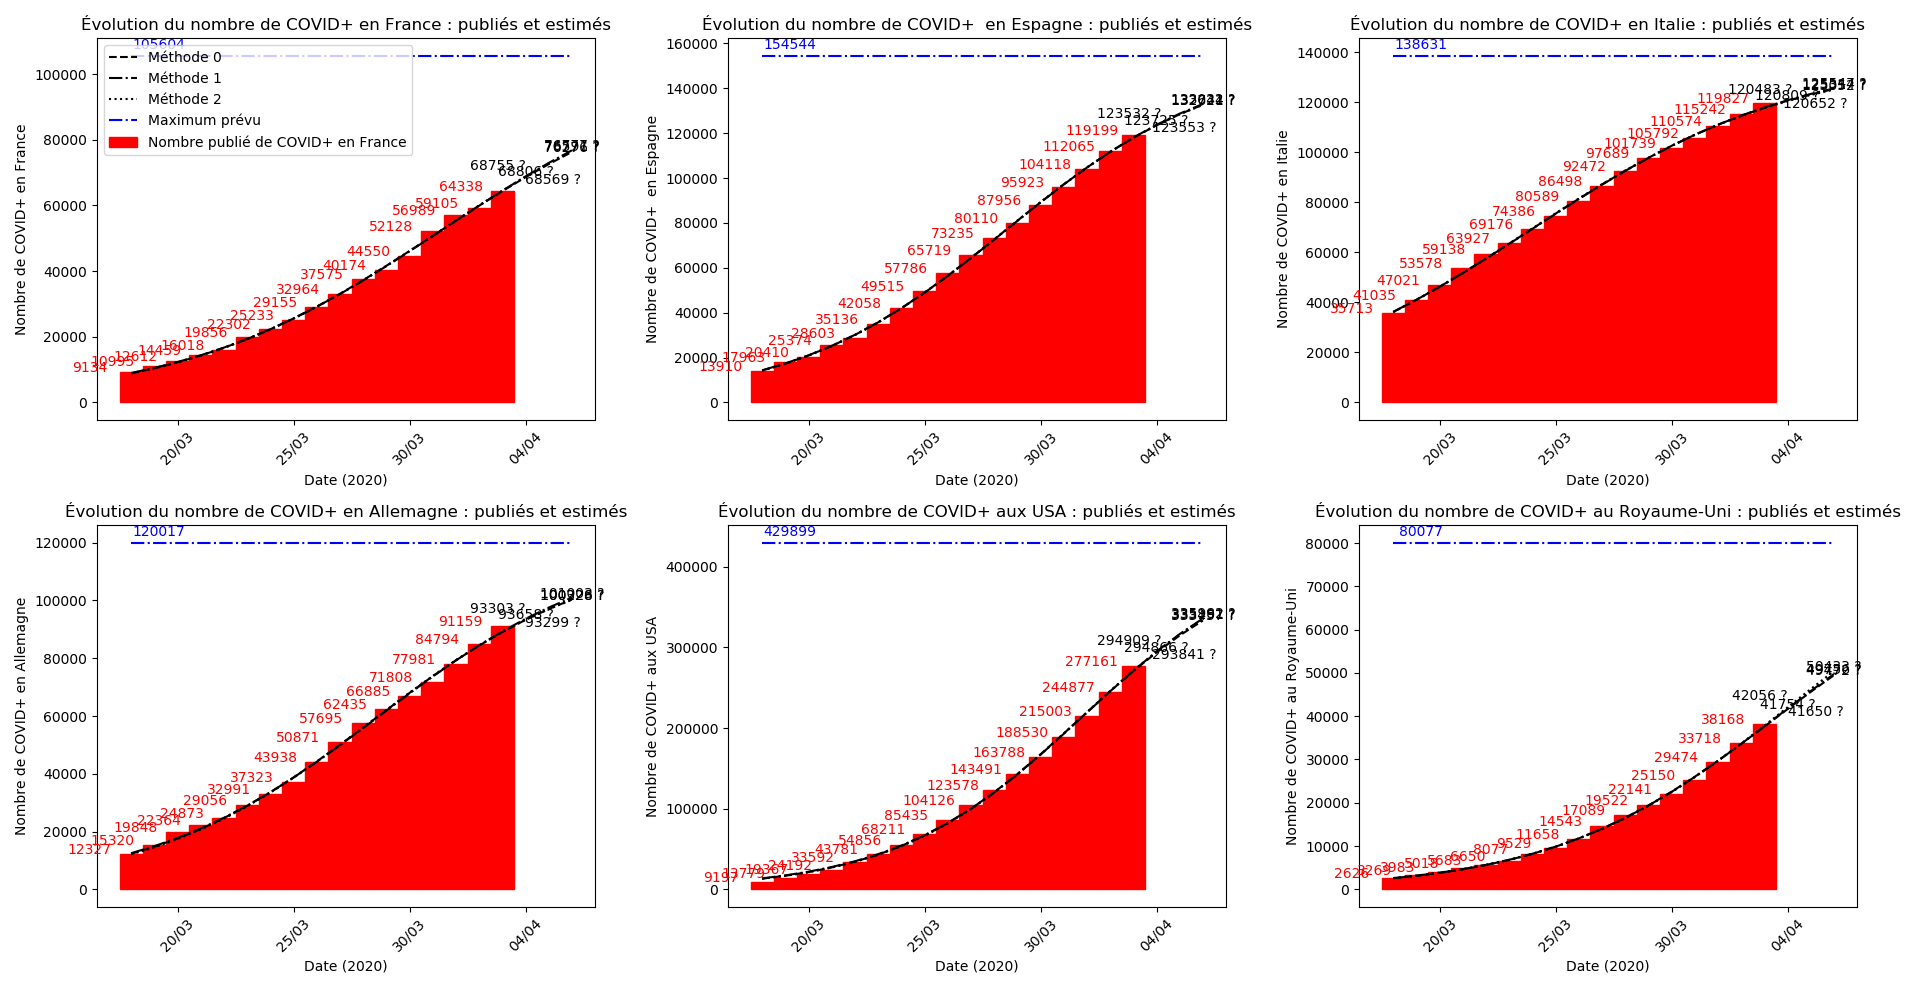
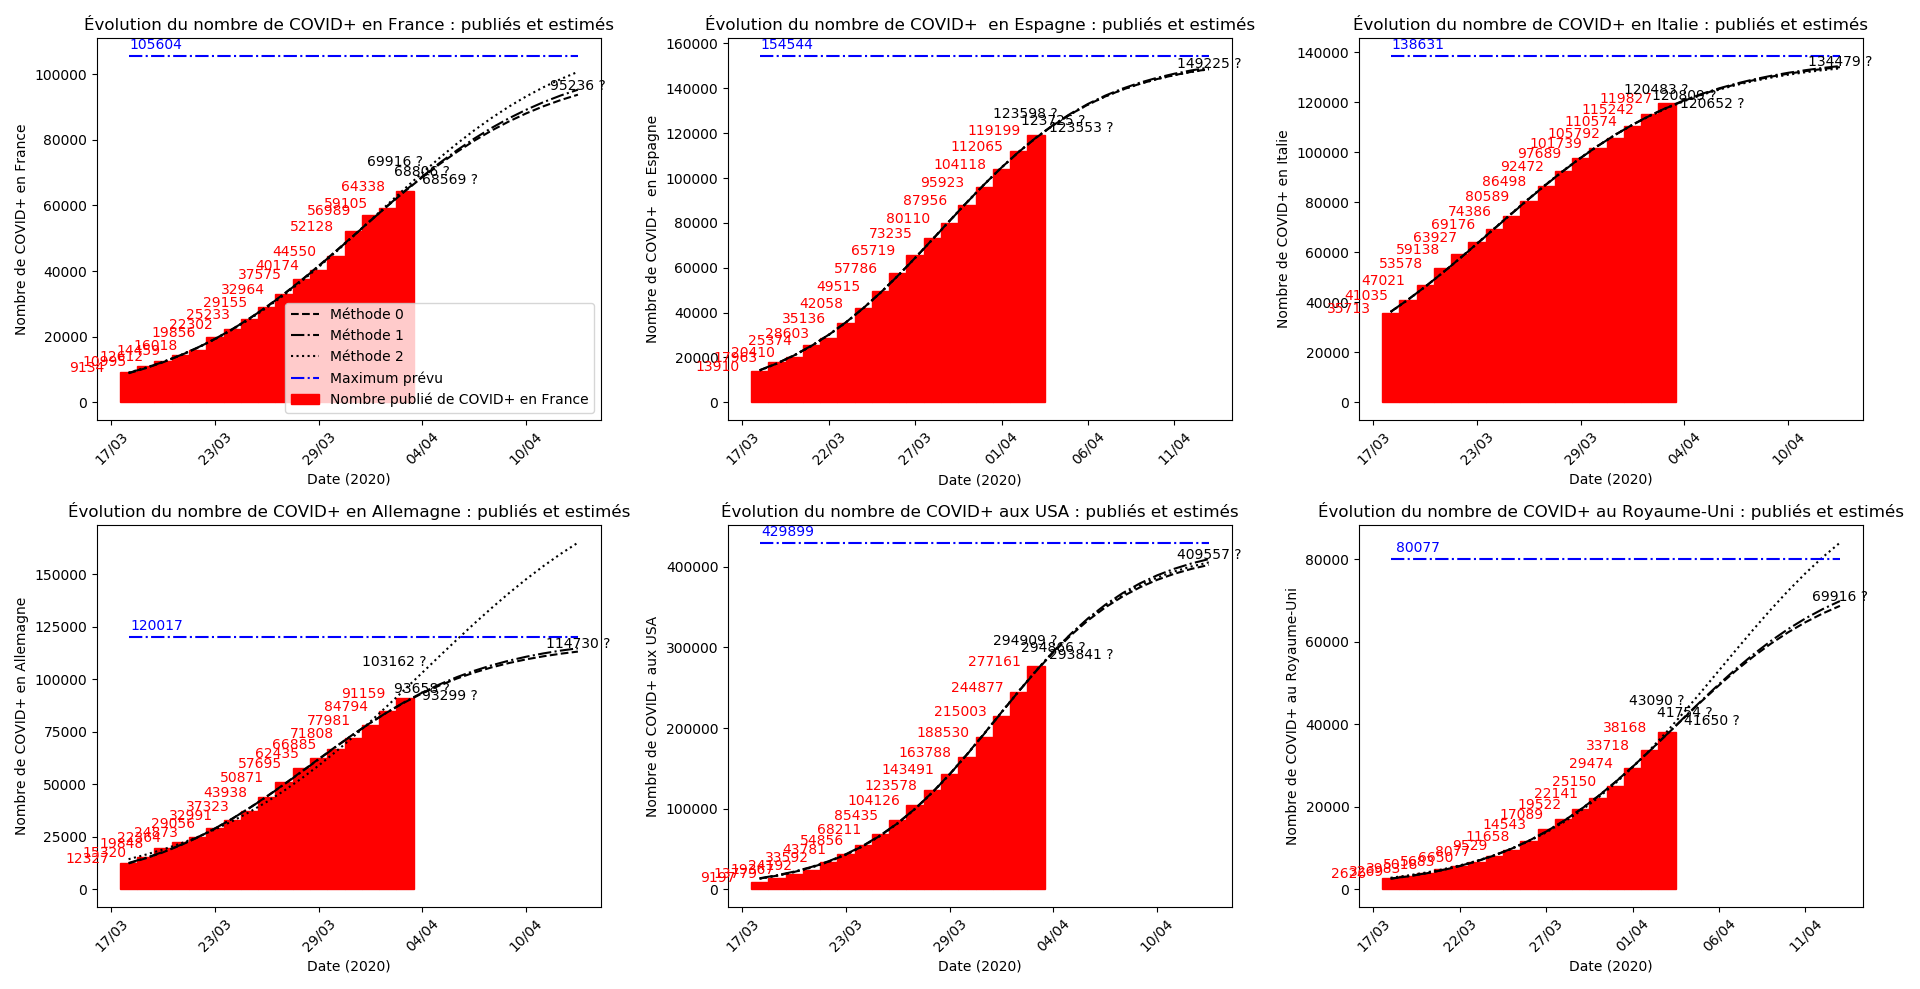
CoViD-19

diff --git a/_posts/2020-03-28-covid19.md b/_posts/2020-03-28-covid19.md
@@ -636,6 +636,8 @@ Sources des données :
 
 [![CoViD-19 sigmoïdale, évolution du nombre de cas](/img/EvolFR04042020.png)](/img/EvolFR04042020.png)
 
+[![CoViD-19 sigmoïdale, évolution du nombre de cas](/img/France04042020inflex.png)](/img/France04042020inflex.png)
+
 ### Monde
 
 Source des données : 
